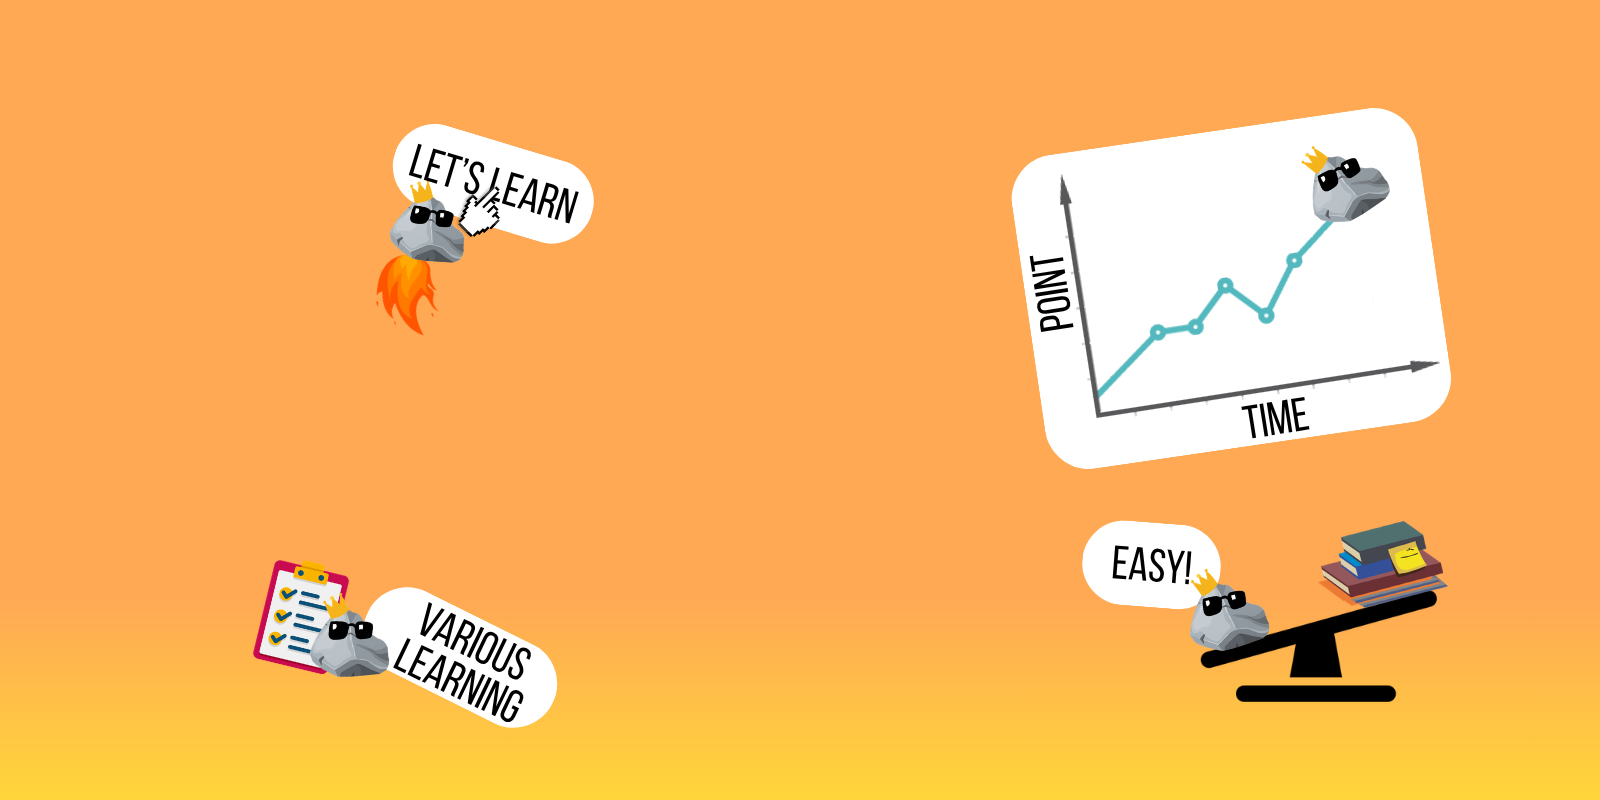
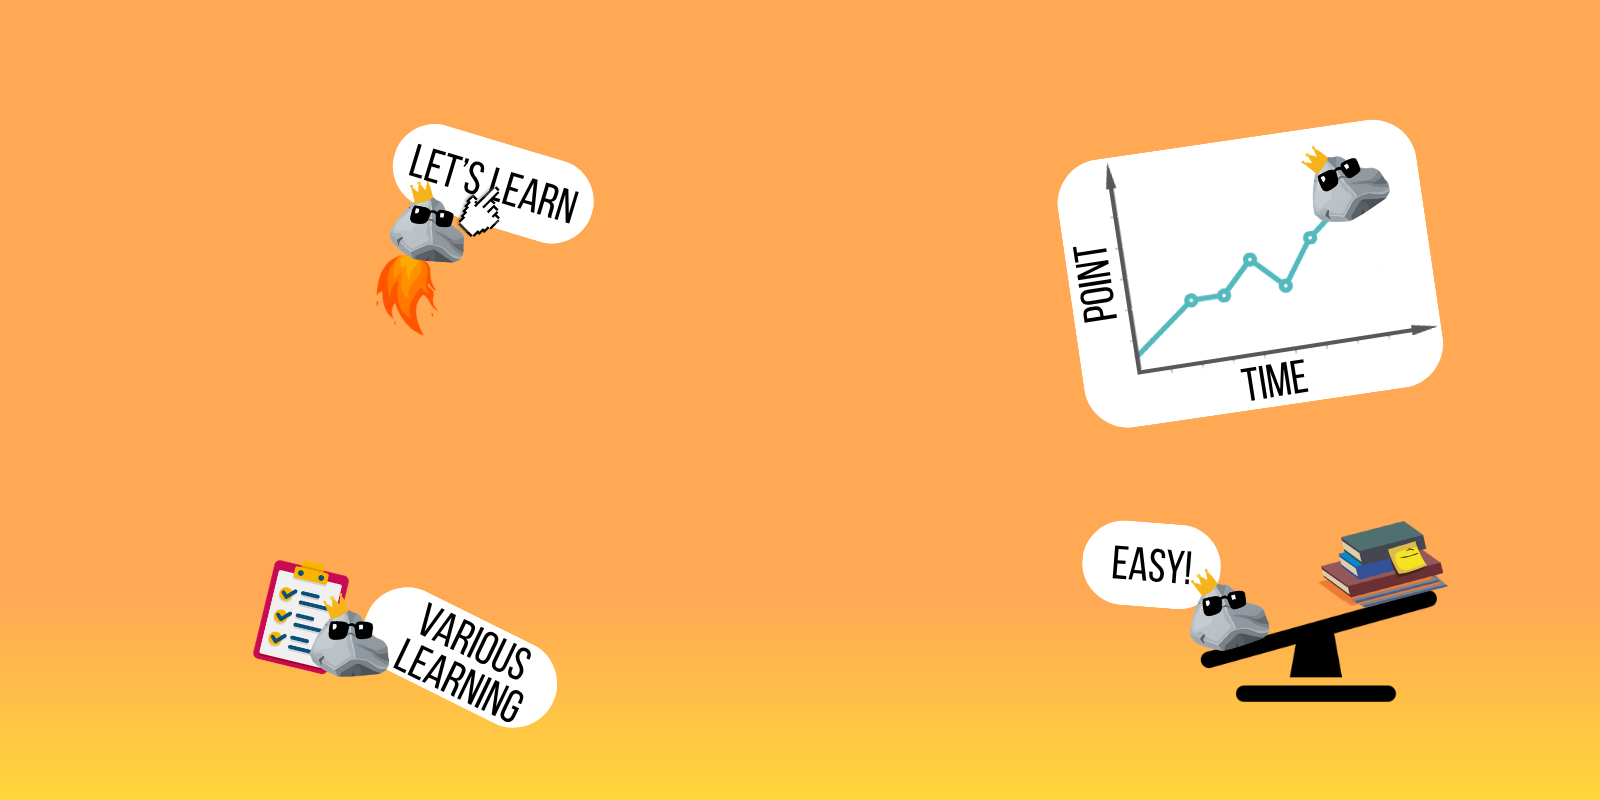
YOUR-METHOD UPDATE LOCAL STORAGE IMPLEMENTED

Changed region(s): [[0.625, 0.125, 0.9062, 0.5938], [0.875, 0.1562, 0.9062, 0.1875], [0.8125, 0.2812, 0.8438, 0.3125]]

diff --git a/src/MIDSECTION/info_every_tips.jsx b/src/MIDSECTION/info_every_tips.jsx
@@ -3,6 +3,7 @@ import Main from './COLOR_CHANGE.jsx';
 import Clock from "./Clock.jsx";
 import Timer from './Clock.jsx';
 import SpacePlan from "./Space_plan.jsx";
+import AddingMethods from "./Sugeston.jsx";
 
 export const images = import.meta.glob("../image/*.{png,jpg,jpeg,webp,gif,svg,mp4,mp3}", { eager: true });
 /*return an object of file */
@@ -59,7 +60,7 @@ class TypeOfTips {
 }
 
 /*change img into asset */
-class DetailOfTips{
+export class DetailOfTips{
   constructor(header = "header", paragraph = "p", asset = image_importor("LOGO", "image"), side="right", more_info= false, audio = false){
     this._header = header;
     this._paragraph = paragraph;
@@ -119,8 +120,80 @@ function CITATE(props){
   )
 }
 
+let user_list
+let raw_object_user_list = [];
+
+try {
+  const parsed = JSON.parse(localStorage.getItem("user_lists") || "[]");
+  raw_object_user_list = Array.isArray(parsed) ? parsed.filter(Boolean) : [];
+} catch {
+  raw_object_user_list = [];
+  localStorage.setItem("user_lists", "[]");
+}
+
+if(raw_object_user_list){
+  user_list = raw_object_user_list.map((object, index) => {
+
+    function deleteUserTip(){
+      const raw = JSON.parse(localStorage.getItem("user_lists") || "[]").filter(Boolean)
+
+      raw.splice(index, 1)
+
+      localStorage.setItem("user_lists", JSON.stringify(raw))
+
+      window.location.reload()
+    }
+
+    return new DetailOfTips(
+      object._header,
+      {
+        eng: (
+          <>
+            {object._paragraph.eng}
+            <button className="x-button" onClick={() => deleteUserTip(index)}><img src={image_importor("xaxon").src}></img></button>
+          </>
+        ),
+        vn: (
+          <>
+            {object._paragraph.vn}
+            <button className="x-button" onClick={() => deleteUserTip(index)}><img src={image_importor("xaxon").src}></img></button>
+          </>
+        ),
+      },
+      object._asset,
+      (index % 2=== 0)? "right" : "left",
+      false,
+      false
+    );
+  })}
+else{
+  user_list = [];
+}
+
+
 
 export const list_of_tips = [
+  new TypeOfTips(
+    "YOUR-METHOD",
+    {eng: <div className="introduction">
+        <h2>Introduction</h2>
+        <p>
+        - YOUR-METHOD is the section where you can add your methods and <u>use it with Edulience's methods</u><br/>
+        - Each method will have different effort levels from easy, medium to hard.<br/>
+        <img src={image_importor("fish").src}/><img src={image_importor("whale").src}/><img src={image_importor("sharky").src}/>
+        </p>
+      </div>,
+      vn: <div className="introduction">
+         <h2>Giới thiệu</h2> 
+          <p> 
+            - Phần YOUR-METHOD này cung cấp cho bạn có thể ghi lại những phương pháp học tập hiệu quả của bạn, giúp bạn<u>xem và kết hợp phương pháp học tập của bạn và Edulience</u><br/>
+            - Mỗi phương pháp sẽ có các mức độ nỗ lực khác nhau từ dễ, trung bình đến khó.<br/>
+            <img src={image_importor("fish").src}/><img src={image_importor("whale").src}/><img src={image_importor("sharky").src}/> 
+          </p> 
+        </div>},
+        user_list,
+        <AddingMethods/>,
+  ),
   new TypeOfTips(
     "PRE-LEARN",
       {eng: <div className="introduction">
@@ -513,7 +586,8 @@ export const list_of_tips = [
           nghiên cứu từ Havard<CITATE src="https://www.health.harvard.edu/healthbeat/foods-linked-to-better-brainpower" n="2"></CITATE>
         </>},
         image_importor("chicken"),
-        "left"
+        "left",
+        <iframe width="560" height="315" src="https://www.youtube.com/embed/btXIAqMSLaI?si=3kt0H28IhoPyIWlm" title="YouTube video player" frameborder="0" allow="accelerometer; autoplay; clipboard-write; encrypted-media; gyroscope; picture-in-picture; web-share" referrerpolicy="strict-origin-when-cross-origin" allowfullscreen></iframe>
       ),
 
       
@@ -664,7 +738,7 @@ export const list_of_tips = [
           lần kế tiếp là sau 2 ngày, rồi 4 ngày, và cứ tiếp tục như vậy.
           Cách này giúp bạn đạt kết quả cao hơn dù tốn cùng một lượng thời gian học. 
           Phần 'thông tin thêm' sẽ giúp bạn lập kế hoạch cho thời gian ôn tập của mình."
-        </>
+        </> 
         },
         image_importor("space-learn"),
         "left",

diff --git a/src/MIDSECTION/Sugeston.jsx b/src/MIDSECTION/Sugeston.jsx
@@ -1,0 +1,56 @@
+import { useRef, useState } from "react"
+import { DetailOfTips, image_importor } from "./info_every_tips";
+
+function AddingMethods(){
+
+    const TITLE = useRef(null)
+
+    const CONTENT = useRef(null)
+
+    const [Effort, setEffort] = useState("fish")
+
+    let user_list = JSON.parse(localStorage.getItem("user_lists") || "[]").filter(Boolean);
+
+    function Process_user_methods(e){
+        e.preventDefault();
+        
+        if(!TITLE.current?.value.trim() || !CONTENT.current?.value.trim()){
+            return;
+        }
+
+        const adding = new DetailOfTips(
+           {
+            vn: TITLE.current.value,
+            eng: TITLE.current.value,
+            src: image_importor(Effort).src
+           }, 
+           {
+            vn:CONTENT.current.value,
+            eng:CONTENT.current.value,
+           })
+       
+        if( user_list === null){
+            localStorage.setItem("user_lists", "[]")
+        }
+        else if(user_list){
+            localStorage.setItem("user_lists", JSON.stringify([adding, ...user_list]))
+            window.location.reload() 
+        }}
+    return(
+        <form  onSubmit={Process_user_methods}>
+            <h2><label htmlFor="title-input">what title for your awesome methods?</label></h2>
+                <input ref={TITLE}   type="text" placeholder="The awesome methods" id="title-input" name="title-input"/>
+            <h2><label htmlFor="content-input">how would you describe your methods?</label></h2>
+            <input ref={CONTENT} type="text" placeholder="The something or its details" id="content-input" name="content-input"/>
+            <h2><label htmlFor="effort_level"> the effort level:</label></h2>
+            <div className="rado">
+                <div><input type="radio" name="effort_level" value="sharky" onChange={() => setEffort("sharky")}/><label htmlFor="effort-level">Hard</label></div><br/>
+                <div><input type="radio" name="effort_level" value="whale" onChange={() => setEffort("whale")}/><label htmlFor="effort-level">Medium</label></div><br/>
+                <div><input type="radio" name="effort_level" value="fish" onChange={() => setEffort("fish")}/><label htmlFor="effort-level">Easy</label></div><br/>
+            </div> 
+            <button type="submit">ADD your methods</button>
+        </form> 
+         
+    )}
+
+export default AddingMethods;

diff --git a/src/index.scss b/src/index.scss
@@ -449,6 +449,7 @@ table img{
 }
 
 /* Mobile first TIP card */
+form,
 .introduction,
 .TIP > div{
   width: var(--container);
@@ -497,12 +498,31 @@ div.introduction{
   font-size: var(--fs-body);
   line-height: 1.65;
 }
-.TIP div textarea, .TIP div input{
+textarea, input{
   width: min(80%, 60ch);
-  height: 20vh;
+  height: min(8%, 6ch);
   font-size: var(--font-body);
   font-family: var(--font-body);
 }
+
+div.rado{
+  display: flex;
+  div{
+    display: flex;
+    align-items: center;
+    input[type="radio"]{
+    width: 4vw;
+    height: 4vw;
+    display: inline-block;
+    margin-right: 8px;
+    cursor: pointer;
+    };
+    label{
+    display: inline-block;
+    }
+  }
+}
+
 
 .TIP div img{
   width: min(280px, 70vw);
@@ -511,11 +531,22 @@ div.introduction{
 
 .TIP div button{
   width: fit-content;
-  margin: calc(var(--space-1)0.7);
+  margin: calc(var(--space-1)2);
+}
+button.x-button img{
+  height: 1vw;
+  width: 1vw;
+  margin: calc(var(--space-1)2);
+}
+button.x-button{
+  position: absolute;
+  bottom: -80px;
+  left: 0px;
 }
 .TIP div audio{
   display: block;
 }
+
 
 .TIP div .more_info{
   border-left: 0.5rem var(--tomato) solid;
@@ -528,6 +559,7 @@ div.introduction{
   height: calc(var(--wdth)*9/16);
   width: var(--wdth);
 }
+
 
 /* Desktop TIP layout */
 @media only screen and (min-width: 900px){

diff --git a/index.html b/index.html
@@ -26,7 +26,7 @@
   <body>
     <header>
       <div id="BENEFIT">
-        <h1>Edulience help y<img src="/public/LOGO.png" style="width:clamp(2rem, 4vw, 3rem); display: inline-block;"/>u<br/><u>learn how to learn</u><br/></h1>
+        <h1>y<img src="/public/LOGO.png" style="width:clamp(2rem, 4vw, 3rem); display: inline-block;"/>u & Edulience study<br/><u>the learning process!</u><br/></h1>
         <a href="#options_of_tips_to_choose"><button><h2>Start learning</h2></button></a>
       </div>
 
@@ -41,13 +41,11 @@
           <p>a learning platform built to help access the best learning methods and train with them seamlessly on the web. Instead of only giving advice, Edulience turns proven study strategies into practical, easy-to-follow experiences that students can explore, understand, and use in daily learning.</p>
           <img src="/public/LOGO.png" style="height: 30vw;"/>
         </div>
-      
-      
-      
-      
       <div class="section_border border_header"></div>
     </header>
+
     <div id="root"></div>
+    
     <script src="https://cdnjs.cloudflare.com/ajax/libs/gsap/3.12.5/gsap.min.js"></script>
     <script src="https://cdnjs.cloudflare.com/ajax/libs/gsap/3.12.5/ScrollToPlugin.min.js"></script>
     <script src="https://cdnjs.cloudflare.com/ajax/libs/gsap/3.12.5/Draggable.min.js"></script>

diff --git a/src/footer.jsx b/src/footer.jsx
@@ -15,7 +15,7 @@ const list_of_contact = [
     },
     {
         image : youtube,
-        scr: "https://www.youtube.com/@gunnychannel204"
+        scr: "https://www.youtube.com/@KINGSTON_ROCKY"
     },
     {
         image : gmail,

diff --git a/src/MIDSECTION/section_of_each_tips.jsx b/src/MIDSECTION/section_of_each_tips.jsx
@@ -54,6 +54,7 @@ export default function Tips(props) {
         </section>
         </>
       ))}
+      {each_section.additional_material}
     </section>
   );
 
